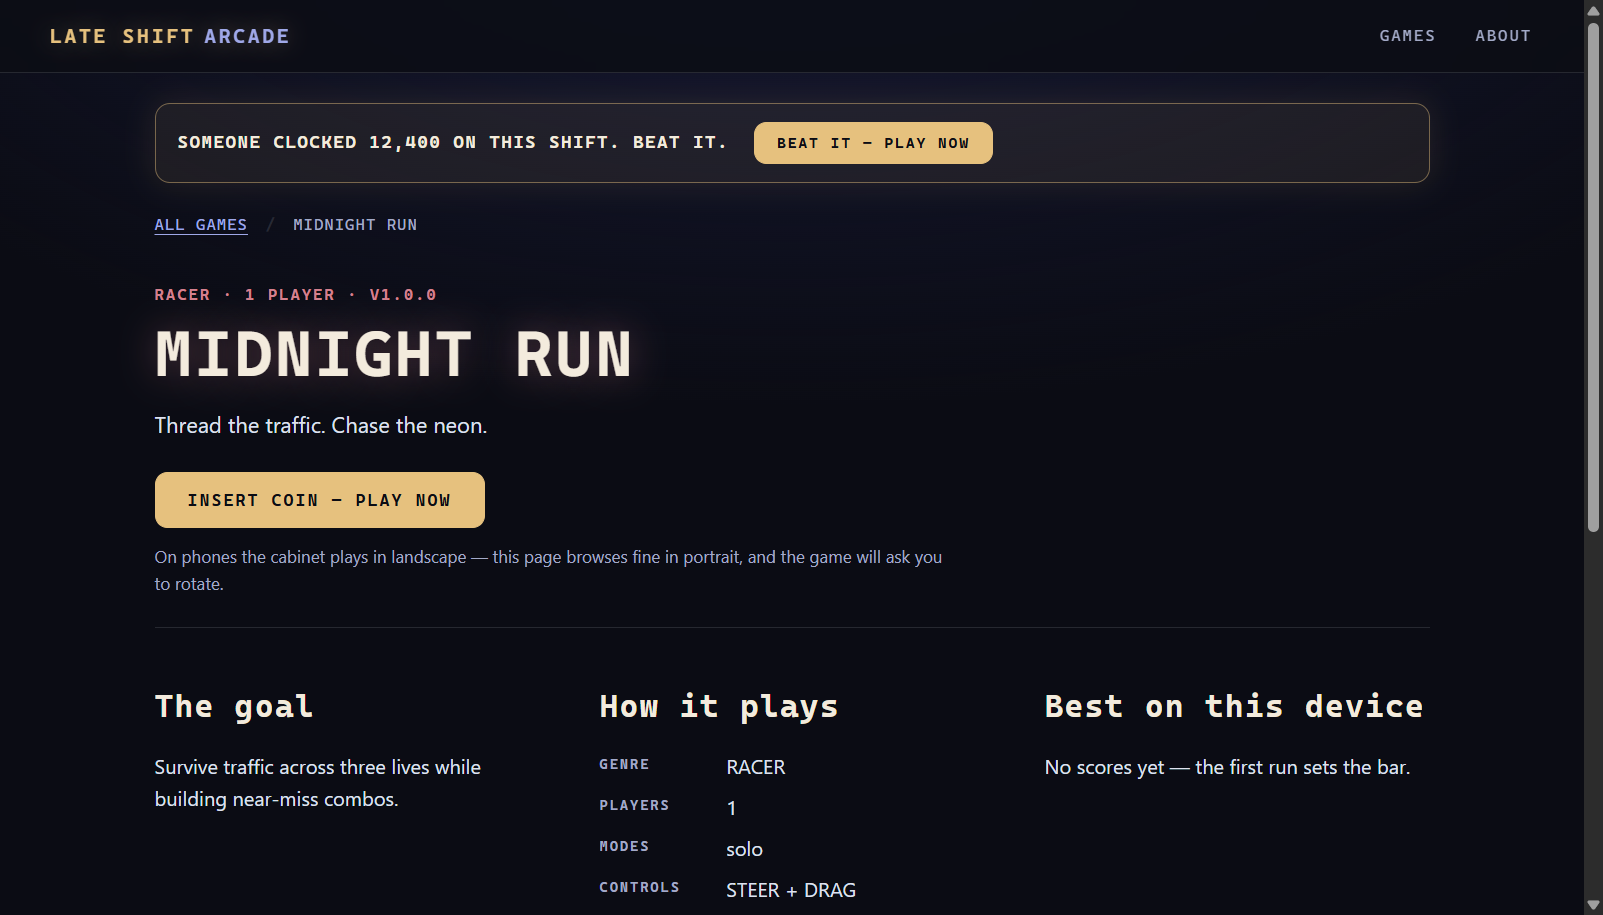
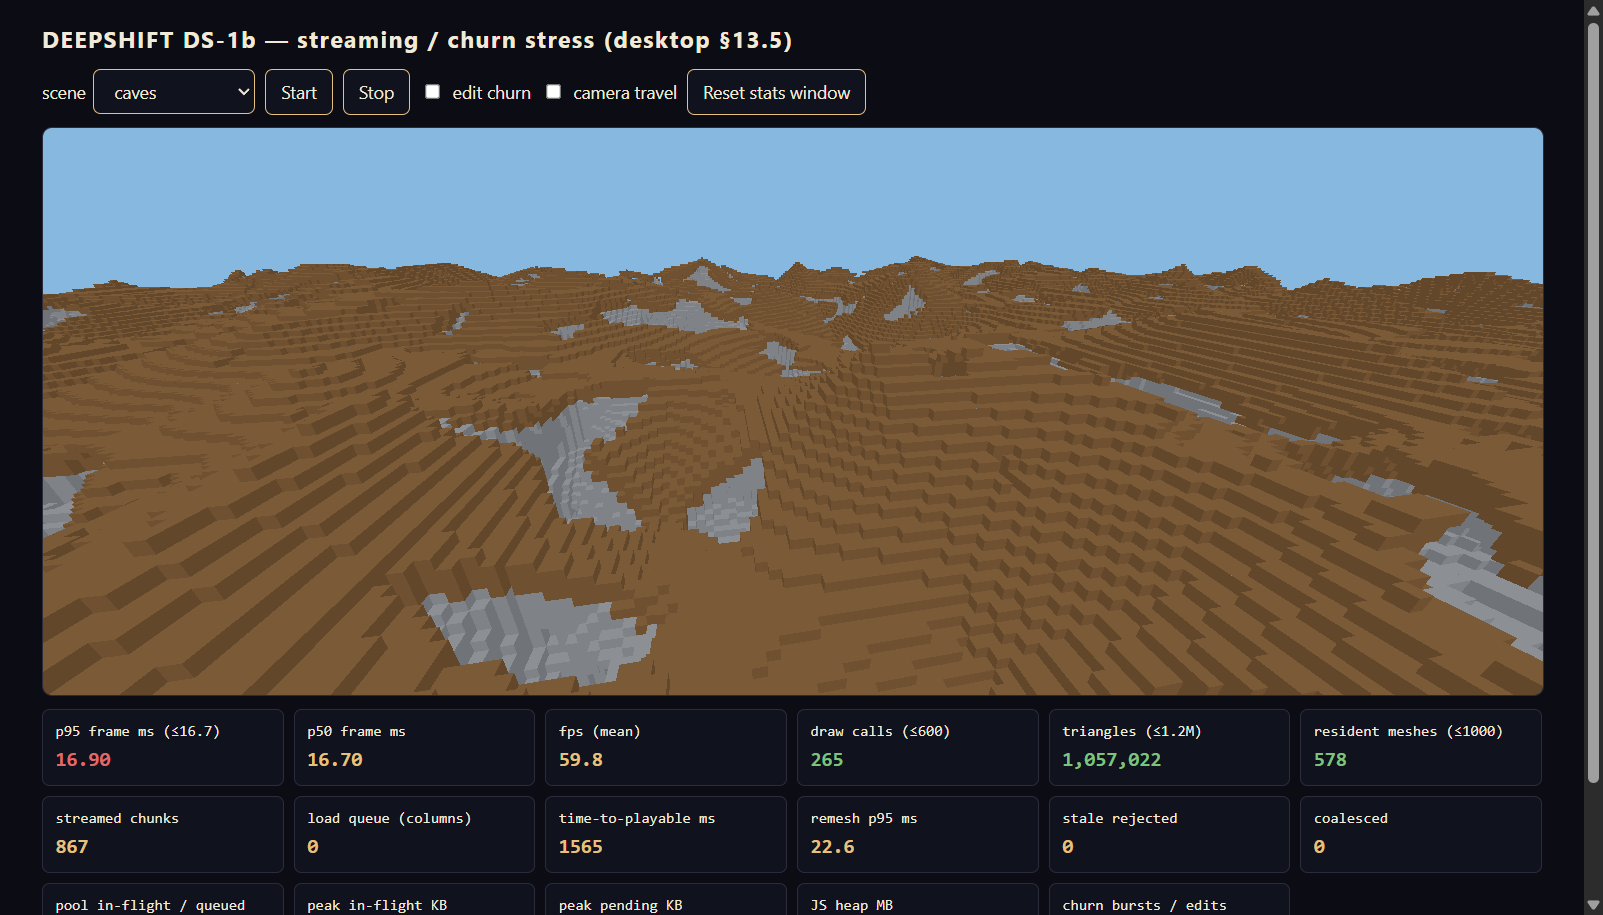
DS-1b Gate 4: measured desktop numbers, evidence, docs
PERF.md: methodology + honest results against GDD 13.5 desktop budgets.
Caves and fortress-city hold 60fps at radius 8 through streaming AND
churn within every cap; the checkerboard worst case misses triangles
(10M vs 1.2M) and heap (up to 4.2GB) by design, bottlenecks named
(no density backstop; chunk-merge upload granularity; retained CPU
copies). TTFP 0.4-1.6s vs 5s budget. Corrected screenshots (two earlier
captures shot the wrong tab / a buried camera). Graybox regression
clean: rebuild 52ms, 10x leak check DOM 43->43, zero console. Fortress
aerial anchor. README covers the DS-1b layout and 93-test set.

Claude-Session: https://claude.ai/code/session_01QrAZVaE958Wu8FFihU6kq7

diff --git a/games/deepshift/view/stress-scenes.js b/games/deepshift/view/stress-scenes.js
@@ -262,7 +262,7 @@ export function fortressScene() {
     name: 'fortress',
     base,
     baseUniform,
-    anchor: { x: 320.5, y: 66, z: 320.5 },
+    anchor: { x: 320.5, y: 100, z: 320.5 },
     seedHex: null,
   });
 }

diff --git a/games/deepshift/PERF.md b/games/deepshift/PERF.md
@@ -1,0 +1,131 @@
+# DEEPSHIFT DS-1b — measured desktop numbers (GDD §13.5, desktop column)
+
+Measured 2026-07-25 in a real browser. Numbers are MEASURED, not asserted
+(feasibility review F-05); misses are reported plainly with the bottleneck
+named. The mobile column and shelf-device capture are deferred to the DS-5
+release gate per DS-0 D4 (owner's word 2026-07-24: web-first).
+
+## Environment
+
+- Chrome 150, Windows 11, viewport 1280×860 css px at devicePixelRatio 1.25
+  (renderer pixel ratio capped at 2; effective ~1600×1000 render target).
+- NVIDIA GeForce RTX 4050 Laptop GPU (ANGLE D3D11), 8 logical cores.
+- 4 mesh workers (`meshWorkerCount(8)` → clamp(2..4, cores−2)).
+- Served statically by `tools/serve.mjs`; no build step, no throttling.
+  DevTools CPU/network throttling NOT applied — this is the unthrottled
+  desktop datapoint. A 2018 UHD 620 laptop remains unmeasured here (that
+  capture is DS-5 gate work together with the mobile column).
+
+## Method
+
+`stress.html` drives the real renderer (`view/renderer.js` — the same
+module the cartridge uses) over the three adversarial scenes committed as
+deterministic generators in `view/stress-scenes.js`, at RENDER_RADIUS 8
+with radius+2 unload. Authoritative activation is untouched throughout:
+these are render-only worlds far larger than SIM_RADIUS 3, so
+frozen-but-visible chunks are the normal case, as D1 intends.
+
+Per scene, three windows (stats reset between windows, `window.__stress()`
+scraped via Chrome DevTools MCP):
+
+1. **fill** — cold start to full radius-8 spiral fill (~8–25 s).
+2. **travel** — 15 s steady state, scripted lissajous patrol (±200 blocks
+   ≈ ±6 chunk columns: streaming and unload run continuously).
+3. **churn** — 15 s of travel plus scripted edit bursts
+   (`view/churn.js`: 24 edits per burst, ~10 bursts/s, half of all edits
+   snapped onto 16-block section faces so neighbor sections dirty too).
+
+Frame time is the requestAnimationFrame interval; at 60 Hz vsync the floor
+is 16.67 ms, so p95 values of 16.8–17.0 ms are vsync quantization (mean
+fps 59–60, p50 16.7), not missed frames — p99 is quoted where frames were
+actually dropped. Remesh latency is job submit → geometry applied,
+measured inside the mesh pool. Time-to-playable is start → every chunk
+within radius 3 of the anchor streamed and settled.
+
+## Results vs §13.5 desktop budgets
+
+Steady-state travel window (worst of travel/churn in parentheses where
+churn was worse):
+
+| Metric (desktop budget) | caves | fortress city | checkerboard | verdict |
+| --- | ---: | ---: | ---: | --- |
+| Frame p95 ms (≤16.7, 60 fps) | 17.0 @ 60 fps | 17.0 @ 60 fps | 16.9 @ 59.9 (churn 33.5 @ 45 fps) | **PASS** caves+fortress; **MISS** checkerboard churn |
+| Frame p99 ms | 17.0 | 17.1 | 33.3 (churn 50.0) | occasional dropped frame on checkerboard |
+| Draw calls (≤600) | 124–247 | 100–188 | 152–245 | **PASS** all |
+| Triangles on screen (≤1.2 M) | 0.5–1.06 M | 0.15–0.47 M | **7.5–11.1 M** | **PASS** caves+fortress; **MISS** checkerboard (by design) |
+| Resident chunk meshes (≤1,000) | 388–613 | 210–438 | 388–676 | **PASS** all |
+| View radius (8) | 8 | 8 | 8 | PASS (radius+2 unload observed live) |
+| JS heap (≤350 MB) | 241–336 MB | 56–85 MB | **2.5–4.2 GB** | **PASS** caves+fortress; **MISS** checkerboard |
+| Cold start → playable (≤5 s) | 1.08–1.57 s | 0.44–0.72 s | 1.47 s | **PASS** all |
+| Remesh p95 during churn | 43 ms | 27 ms | 89 ms | no §13.5 row; GDD §13.3 "≤4 ms worker time" is per-job — queue latency dominates these numbers |
+| Launch/eject leak (G-007) | — | — | — | **PASS**: graybox 10× cycle, DOM 43→43, heap flat, zero console |
+
+Pool contract observed live during fortress-scale churn windows on caves
+geometry: `rejectedStale` 41–94, `coalesced` 2–221, in-flight input peak
+46 KB, pending output peak 1.4–28 MB — all within the caps below, with
+dispatch stalling and resuming under output backpressure exactly as the
+headless tests assert.
+
+Graybox regression (DS-1a page through the reworked renderer): launches,
+mines, HUD ticks; kill+rebuild renderer 52 ms; 10× launch/eject leak check
+DOM 43→43; zero console messages.
+
+## The honest misses, with bottlenecks named
+
+The checkerboard slab is the designed worst case — 2,048 isolated voxels
+per 16³ section, nothing merges (12,160 quads per section, pinned by
+test). At radius 8 it puts **~10 M triangles** in the resident set, 8.5×
+the 1.2 M budget:
+
+1. **Triangles/heap: no density backstop.** F-05 asked for visible-mesh
+   and triangle limits enforced independently of radius. DS-1b enforces
+   the radius and the draw batching but has no per-chunk triangle budget
+   or density-based LOD/limit. On this RTX 4050 the GPU still holds 60 fps
+   at 10 M tris; the frame budget broke only when CHURN forced continuous
+   1.5 MB-scale geometry rebuilds (p95 33.5 ms, 45 fps). The 2.5–4.2 GB
+   heap is the same geometry retained twice on the CPU side: sectionData
+   copies for chunk re-merges plus three.js's own CPU-side
+   BufferAttribute arrays. On a 350 MB-budget machine this scene would
+   OOM long before it slowed down.
+2. **Churn frame cost: chunk-merge granularity.** The draw unit is the
+   32³ chunk (8 sections merged per geometry — that batching is why draw
+   calls sit at 100–250 against a 600 budget). Under churn every dirtied
+   section forces its whole chunk to re-concat and re-upload; on
+   checkerboard that is up to ~12 MB per chunk per burst. The 4 ms/frame
+   re-merge budget spreads the work but the upload itself still spikes
+   frames.
+
+Named follow-ups (not implemented in this slice): a per-chunk triangle
+budget with a fallback to per-section draws for over-dense chunks;
+releasing CPU-side copies after GPU upload (three.js onUploadCallback, or
+rebuilding merges from worker re-requests); GDD §13.6's LRU eviction under
+memory pressure. None of these change sim behavior.
+
+Deferred, and said so: sun-column lighting was NOT required to make these
+stress results meaningful (the §13.5 rows measured here are geometry,
+scheduling, and streaming budgets), so DS-1a's baked face shading stands;
+smooth lighting/AO rebake fan-out remains DS-1b follow-on work under GDD
+§13.3's "budget light fan-out separately".
+
+## Buffer-count caps chosen (F-06)
+
+- One in-flight job per section key, ever.
+- `maxInFlight` = 2 × workers (8 on this machine).
+- `maxInFlightBytes` (input snapshots) = 8 MB — never exceeded; a job
+  larger than the whole cap may fly alone so nothing deadlocks.
+- `maxPendingResultBytes` (received, unapplied output) = 32 MB — dispatch
+  stalls above this until the per-frame drain frees it.
+- Per-frame presentation budgets: 3 ms snapshot streaming (checked before
+  every chunk), 32 results applied, 4 ms chunk re-merge.
+
+## Reproduce
+
+```
+node games/deepshift/tools/serve.mjs 8123
+# open http://127.0.0.1:8123/games/deepshift/stress.html
+# pick a scene, Start; toggle "edit churn"; Reset stats window; read the
+# tiles or window.__stress()
+```
+
+Screenshots in `perf-evidence/`: caves, fortress city, and checkerboard at
+radius 8 with live metric tiles, plus the graybox regression page.

diff --git a/games/deepshift/README.md b/games/deepshift/README.md
@@ -1,9 +1,12 @@
-# DEEPSHIFT — DS-1a kernel slice
+# DEEPSHIFT — DS-1a kernel + DS-1b stress slices
 
-The first engineering slice of the DEEPSHIFT voxel game (DS-0 D4). A pure,
-deterministic, headless sim kernel; an eight-minute graybox proven winnable
-and losable by scripted policies; a Three.js renderer behind the cartridge
-boundary; and a headless verifier that replays any run byte-identically.
+The first engineering slices of the DEEPSHIFT voxel game (DS-0 D4). DS-1a:
+a pure, deterministic, headless sim kernel; an eight-minute graybox proven
+winnable and losable by scripted policies; a Three.js renderer behind the
+cartridge boundary; and a headless verifier that replays any run
+byte-identically. DS-1b: worker meshing behind the F-06 snapshot contract,
+radius-8 desktop render streaming, adversarial stress scenes with an edit
+churn harness, and MEASURED §13.5 desktop numbers (`PERF.md`).
 Binding decisions: `docs/DS-0-DECISIONS.md`; architecture: GDD §13.
 
 ## Layout
@@ -17,14 +20,41 @@ sim/       pure kernel. Imports NOTHING outside sim/ (test-enforced).
   physics.js     20 Hz fixed-step AABB voxel physics
   sim.js         state, rules, tick, per-tick hash chain, WorldView snapshot
   replay.js      headless replay + run-log envelope
-view/      renderer side. mesher.js and registry.js are pure (tested headless);
-           renderer.js is the Three.js subscriber — holds zero sim truth.
+view/      renderer side. Pure and headless-tested: mesher.js, registry.js,
+           mesh-snapshot.js (F-06 immutable section+halo job snapshots),
+           mesh-pool.js (revision-stamped scheduler: stale rejection,
+           coalescing, counted+capped buffers), render-set.js (radius-8
+           spiral streaming, radius+2 unload), stress-scenes.js + churn.js
+           (DS-1b adversarial fixtures). Browser-side: mesh-worker.js (plain
+           module worker), mesh-transports.js (2-4 workers, inline fallback),
+           renderer.js — the Three.js subscriber, streams sections through
+           the pool and draws one merged geometry per 32^3 chunk.
 cart/      the F-008 cartridge adapter: lifecycle, input (KB/M + touch), DOM HUD.
 vendor/    three 0.185.1 (module + core, minified ES modules) + MIT license.
 tools/     verify-run.mjs (the DS-1a acceptance verifier), scripted policies,
-           fixture regenerators.
+           fixture regenerators, serve.mjs (dev static server for stress runs).
 fixtures/  d1-activation.json (D1 conformance golden), golden-run.json.
+stress.html      DS-1b measurement harness (window.__stress()).
+PERF.md          measured §13.5 desktop numbers + methodology + misses.
+perf-evidence/   screenshots behind PERF.md.
 ```
+
+## DS-1b in one paragraph
+
+Meshing runs in 2-4 plain module workers. Every job is an immutable
+snapshot of one 16^3 section plus a one-voxel halo, stamped with the
+section's revision; results carry the revision back and are rejected if
+stale — at receive time and again at apply time. Superseded queued jobs
+coalesce; in-flight input bytes, pending output bytes, and job counts are
+capped with real backpressure (dispatch stalls, never the sim). The
+renderer streams chunk columns in spiral order to radius 8 around the
+camera (device-local presentation only — D1 activation stays radius 3, a
+ruleset constant; frozen-but-visible chunks are the normal case), unloads
+beyond radius+2, and draws one merged geometry per 32^3 chunk so draw
+calls stay ~100-250 against the 600 budget. Correctness under churn is
+proven headless: scripted boundary-biased edit bursts against two
+out-of-order transports must leave every touched section byte-identical
+to a fresh remesh of the final world.
 
 No build step, no bundler: everything runs from a static file server; the
 repo root stays zero-dependency. Vendored three: 752 KB raw, ~188 KB gzip
@@ -135,6 +165,11 @@ is a **ruleset event**: goldens change only when the rules deliberately do.
 ## Tests
 
 `npm test` at the repo root discovers `games/deepshift/*.test.js` like every
-other game. 59 tests: math/hash vectors, chunk/worldgen/world, D1
-conformance (golden fixture), physics, purity scans, replay + verifier CLI,
-graybox win/loss policies, mesher + WorldView seam, cartridge contract.
+other game. 93 tests: math/hash vectors, chunk/worldgen/world, D1
+conformance (golden fixture), physics, purity scans (now including the
+worker import-graph: sim/ can never reference Worker/postMessage or the
+mesh pipeline), replay + verifier CLI, graybox win/loss policies, mesher +
+WorldView seam, cartridge contract, and the DS-1b set — mesh-job snapshot
+immutability/byte-identity, pool stale-rejection/coalescing/caps,
+render-set spiral/unload, stress-scene determinism, and remesh-under-churn
+correctness.
